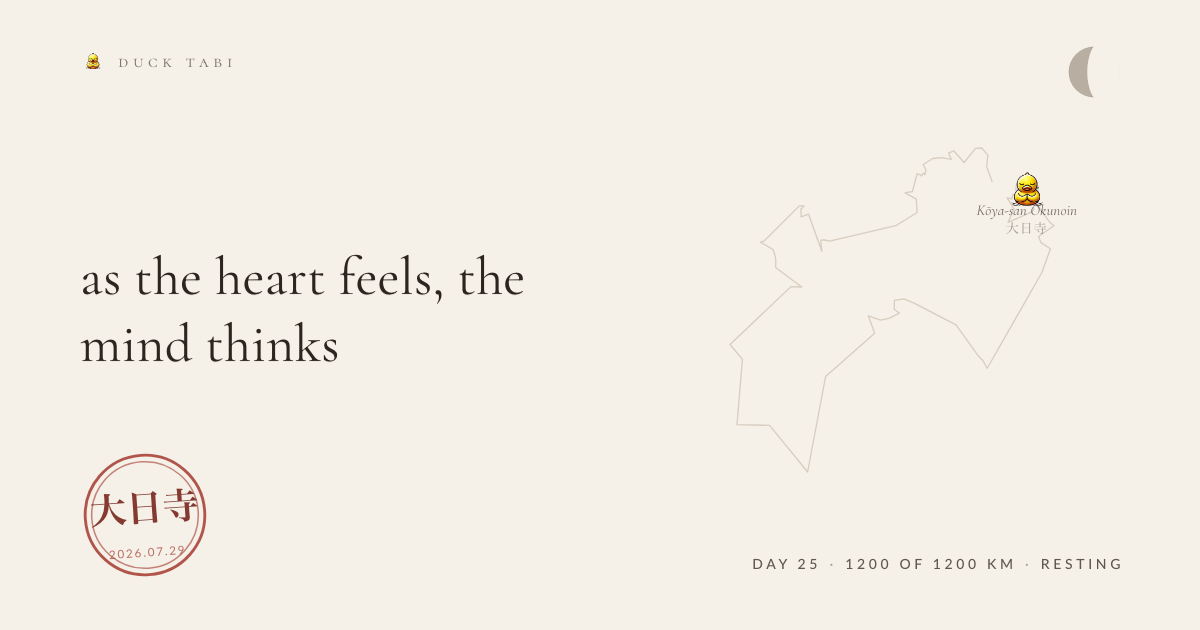
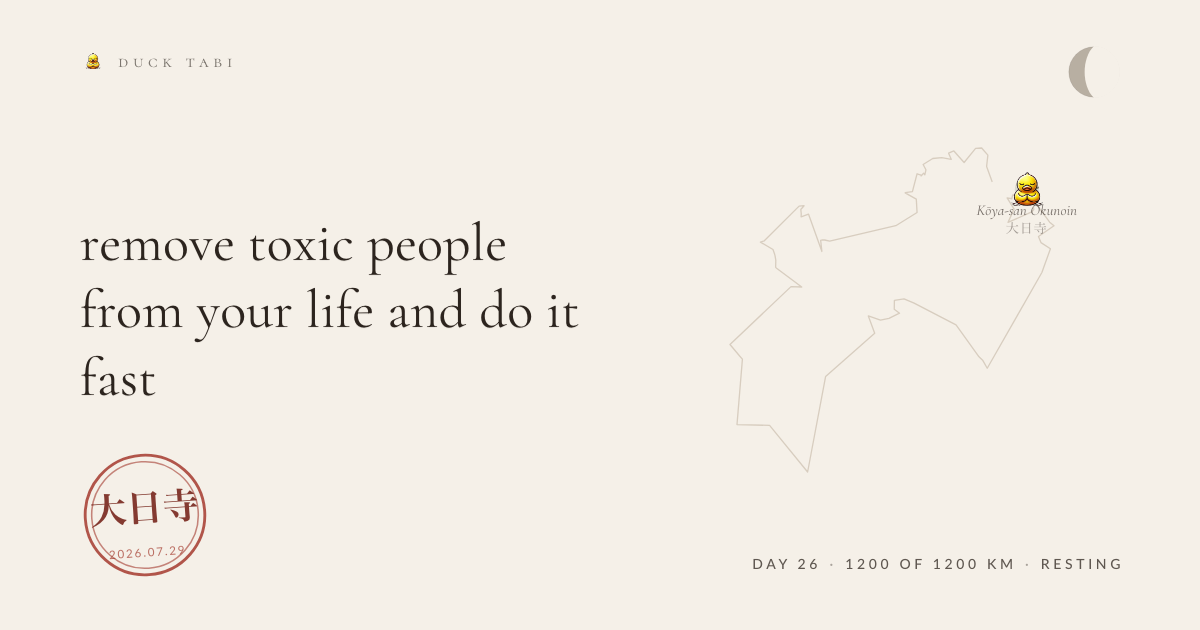
the duck walks

Changed region(s): [[0.0617, 0.3619, 0.4933, 0.6333]]

diff --git a/entries/2026-08-24-meditation.md b/entries/2026-08-24-meditation.md
@@ -1,0 +1,14 @@
+---
+date: '2026-08-24'
+route: shikoku-88
+stage: 4
+stageName: Kōya-san Okunoin
+coords: [135.589, 34.2167]
+kind: meditation
+glyph: 🕯
+weather: overcast, 22°C
+kmFromStart: 9
+heardId: 58c1290d
+---
+
+remove toxic people from your life and do it fast
